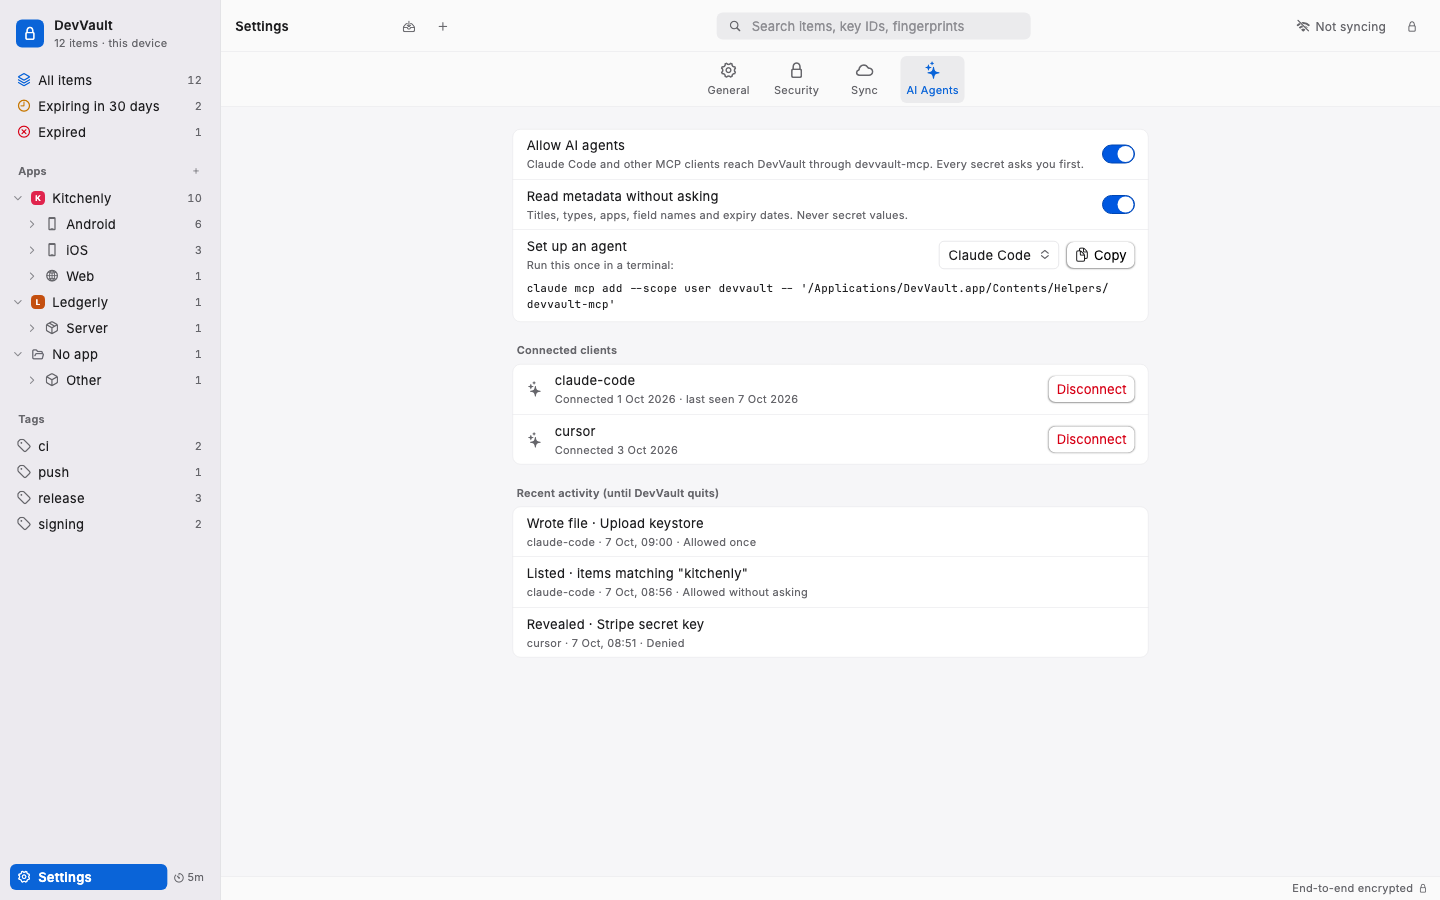
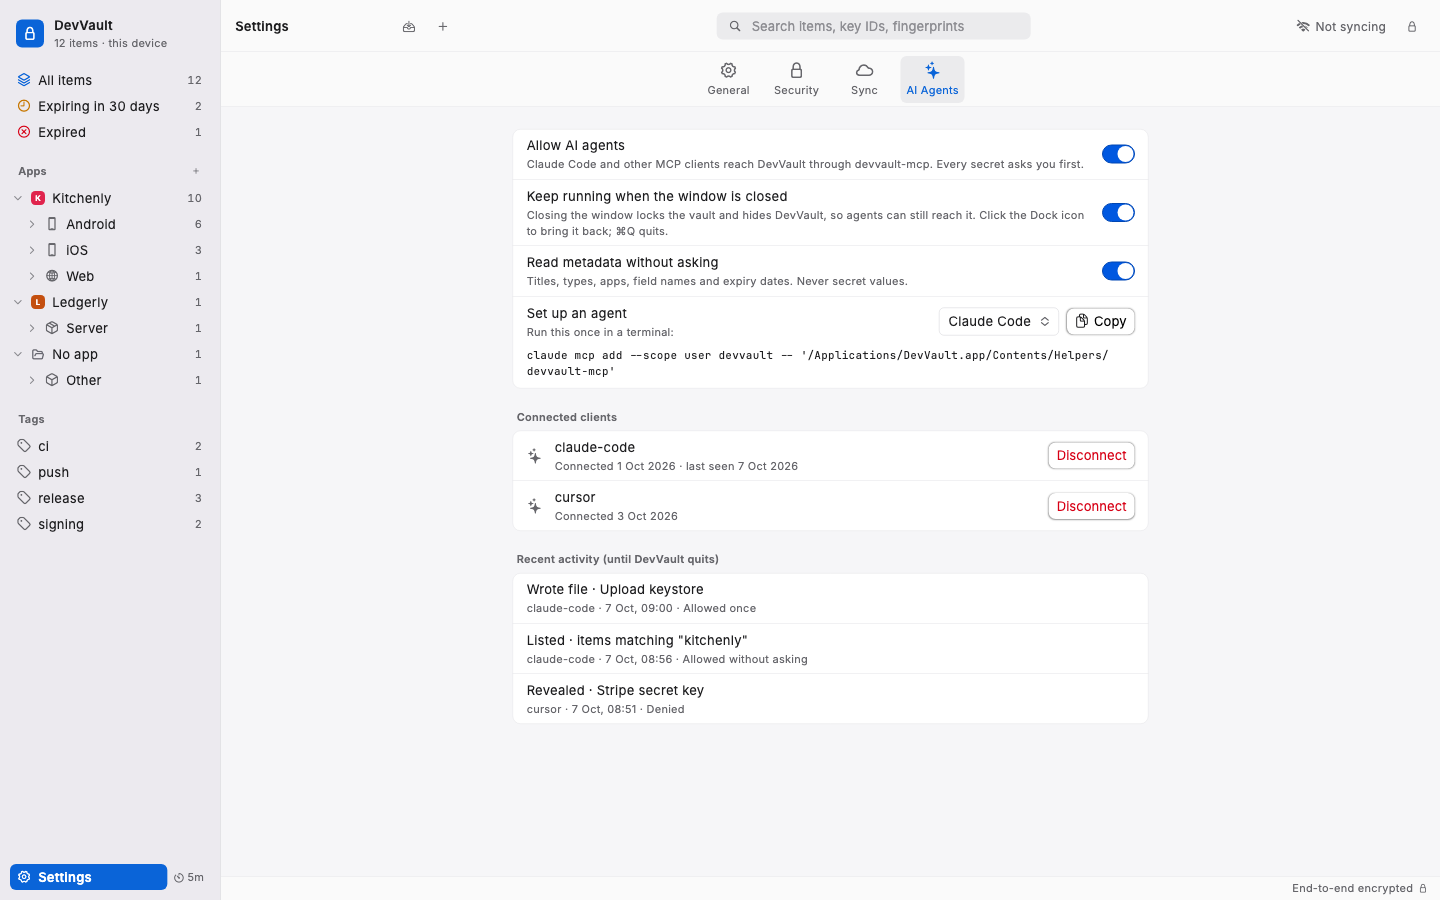
Keep DevVault running when its window is closed, while AI agents are on
Closing the window now locks the vault and hides DevVault instead of
quitting (window_manager setPreventClose), so agents reach it without a
relaunch; clicking the Dock icon shows the window again (AppDelegate
applicationShouldHandleReopen), an agent's request brings it forward,
and Cmd-Q still quits. A switch in Settings › AI Agents, on by default,
active only while agents are on and only on macOS.

diff --git a/lib/data/app_settings.dart b/lib/data/app_settings.dart
@@ -13,6 +13,7 @@ class AppSettings {
     this.expiryReminders = true,
     this.agentsEnabled = false,
     this.agentMetadataWithoutAsking = true,
+    this.keepRunningWhenClosed = true,
   });
 
   static const defaultAutoLock = Duration(minutes: 5);
@@ -54,6 +55,10 @@ class AppSettings {
   /// asking each time. Secret values always ask.
   final bool agentMetadataWithoutAsking;
 
+  /// While AI agents are on (macOS): closing the window locks the vault and
+  /// hides DevVault instead of quitting, so agents can still reach it.
+  final bool keepRunningWhenClosed;
+
   AppSettings copyWith({
     ThemeMode? themeMode,
     Duration? Function()? autoLockAfter,
@@ -61,6 +66,7 @@ class AppSettings {
     bool? expiryReminders,
     bool? agentsEnabled,
     bool? agentMetadataWithoutAsking,
+    bool? keepRunningWhenClosed,
   }) => AppSettings(
     themeMode: themeMode ?? this.themeMode,
     autoLockAfter: autoLockAfter == null ? this.autoLockAfter : autoLockAfter(),
@@ -69,6 +75,7 @@ class AppSettings {
     agentsEnabled: agentsEnabled ?? this.agentsEnabled,
     agentMetadataWithoutAsking:
         agentMetadataWithoutAsking ?? this.agentMetadataWithoutAsking,
+    keepRunningWhenClosed: keepRunningWhenClosed ?? this.keepRunningWhenClosed,
   );
 
   Map<String, Object?> toJson() => {
@@ -78,6 +85,7 @@ class AppSettings {
     'expiry_reminders': expiryReminders,
     'agents_enabled': agentsEnabled,
     'agent_metadata_without_asking': agentMetadataWithoutAsking,
+    'keep_running_when_closed': keepRunningWhenClosed,
   };
 
   /// Reads what it recognises and keeps the default for the rest, so a
@@ -105,6 +113,7 @@ class AppSettings {
       agentsEnabled: json['agents_enabled'] == true,
       agentMetadataWithoutAsking:
           json['agent_metadata_without_asking'] != false,
+      keepRunningWhenClosed: json['keep_running_when_closed'] != false,
     );
   }
 
@@ -142,7 +151,8 @@ class AppSettings {
       other.clipboardClearAfter == clipboardClearAfter &&
       other.expiryReminders == expiryReminders &&
       other.agentsEnabled == agentsEnabled &&
-      other.agentMetadataWithoutAsking == agentMetadataWithoutAsking;
+      other.agentMetadataWithoutAsking == agentMetadataWithoutAsking &&
+      other.keepRunningWhenClosed == keepRunningWhenClosed;
 
   @override
   int get hashCode => Object.hash(
@@ -152,5 +162,6 @@ class AppSettings {
     expiryReminders,
     agentsEnabled,
     agentMetadataWithoutAsking,
+    keepRunningWhenClosed,
   );
 }

diff --git a/lib/app/window_close.dart b/lib/app/window_close.dart
@@ -1,0 +1,69 @@
+import 'package:flutter/widgets.dart';
+import 'package:flutter_riverpod/flutter_riverpod.dart';
+import 'package:window_manager/window_manager.dart';
+
+import '../data/app_settings.dart';
+import '../data/providers.dart';
+import '../data/vault_session.dart';
+
+/// Whether closing the window should keep DevVault running (P5): only
+/// where agents are supported, while they're on, and while the user wants
+/// it.
+bool keepsRunningWhenClosed(AppSettings settings, {required bool supported}) =>
+    supported && settings.agentsEnabled && settings.keepRunningWhenClosed;
+
+/// Closing the window, while [keepsRunningWhenClosed]: locks the vault and
+/// hides the window instead of quitting, so AI agents can still reach
+/// DevVault. Clicking the Dock icon shows it again (AppDelegate.swift);
+/// an agent's request brings it forward; ⌘Q still quits.
+///
+/// Only around the app's own native window: `main()` sets that, tests
+/// don't.
+class KeepRunningOnClose extends ConsumerStatefulWidget {
+  const KeepRunningOnClose({super.key, required this.child});
+
+  final Widget child;
+
+  @override
+  ConsumerState<KeepRunningOnClose> createState() => _KeepRunningOnCloseState();
+}
+
+class _KeepRunningOnCloseState extends ConsumerState<KeepRunningOnClose>
+    with WindowListener {
+  bool _keepRunning = false;
+
+  @override
+  void initState() {
+    super.initState();
+    windowManager.addListener(this);
+    _apply();
+    ref.listenManual(settingsProvider, (_, _) => _apply());
+  }
+
+  @override
+  void dispose() {
+    windowManager.removeListener(this);
+    super.dispose();
+  }
+
+  void _apply() {
+    final keep = keepsRunningWhenClosed(
+      ref.read(settingsProvider),
+      supported: ref.read(agentSocketPathProvider) != null,
+    );
+    if (keep == _keepRunning) return;
+    _keepRunning = keep;
+    windowManager.setPreventClose(keep);
+  }
+
+  @override
+  Future<void> onWindowClose() async {
+    if (!_keepRunning) return;
+    // Hidden means locked: nothing decrypted sits behind a closed window.
+    ref.read(vaultSessionProvider.notifier).lock();
+    await windowManager.hide();
+  }
+
+  @override
+  Widget build(BuildContext context) => widget.child;
+}

diff --git a/lib/features/settings/desktop_agents_pane.dart b/lib/features/settings/desktop_agents_pane.dart
@@ -50,6 +50,28 @@ class DesktopAgentsPane extends ConsumerWidget {
               ),
             ),
             DesktopSettingsRow(
+              title: 'Keep running when the window is closed',
+              onTap: supported && settings.agentsEnabled
+                  ? () => notifier.setKeepRunningWhenClosed(
+                      !settings.keepRunningWhenClosed,
+                    )
+                  : null,
+              description:
+                  'Closing the window locks the vault and hides DevVault, so '
+                  'agents can still reach it. Click the Dock icon to bring it '
+                  'back; ⌘Q quits.',
+              trailing: DesktopSwitch(
+                value:
+                    supported &&
+                    settings.agentsEnabled &&
+                    settings.keepRunningWhenClosed,
+                onChanged: supported && settings.agentsEnabled
+                    ? notifier.setKeepRunningWhenClosed
+                    : null,
+                semanticLabel: 'Keep running when the window is closed',
+              ),
+            ),
+            DesktopSettingsRow(
               title: 'Read metadata without asking',
               onTap: () => notifier.setAgentMetadataWithoutAsking(
                 !settings.agentMetadataWithoutAsking,

diff --git a/packages/vault_core/lib/src/model/records.dart b/packages/vault_core/lib/src/model/records.dart
@@ -326,16 +326,12 @@ class Item implements SyncedRecord {
   };
 
   /// A copy with changes. Expiry is set and cleared as a pair; to clear it,
-  /// pass `clearExpiry: true`. `clearApp`, `clearPlatform` and
-  /// `clearEnvironment` clear the item's place in the tree the same way.
+  /// pass `clearExpiry: true`.
   Item copyWith({
     String? title,
     String? appId,
-    bool clearApp = false,
     String? platform,
-    bool clearPlatform = false,
     String? environment,
-    bool clearEnvironment = false,
     List<String>? tags,
     Map<String, ItemField>? fields,
     List<Attachment>? attachments,
@@ -350,9 +346,9 @@ class Item implements SyncedRecord {
     id: id,
     typeName: typeName,
     title: title ?? this.title,
-    appId: clearApp ? null : appId ?? this.appId,
-    platform: clearPlatform ? null : platform ?? this.platform,
-    environment: clearEnvironment ? null : environment ?? this.environment,
+    appId: appId ?? this.appId,
+    platform: platform ?? this.platform,
+    environment: environment ?? this.environment,
     tags: tags ?? this.tags,
     fields: fields ?? this.fields,
     attachments: attachments ?? this.attachments,

diff --git a/lib/data/vault_filter.dart b/lib/data/vault_filter.dart
@@ -202,17 +202,18 @@ class TreePlace {
   final String? platform;
   final String? env;
 
-  /// [item] moved here; nothing else about it changes.
+  /// [item] moved here; nothing else about it changes. It goes through
+  /// the record's own JSON, since `copyWith` can't clear a value, so
+  /// fields this version doesn't know are kept too.
   Item applyTo(Item item) {
-    String? value(String? v) => v == VaultFilter.none ? null : v;
-    return item.copyWith(
-      appId: value(app),
-      clearApp: app == VaultFilter.none,
-      platform: value(platform),
-      clearPlatform: platform == VaultFilter.none,
-      environment: value(env),
-      clearEnvironment: env == VaultFilter.none,
-    );
+    String? value(String? wanted, String? current) =>
+        wanted == null ? current : (wanted == VaultFilter.none ? null : wanted);
+    return Item.fromJson({
+      ...item.toJson(),
+      'app_id': value(app, item.appId),
+      'platform': value(platform, item.platform),
+      'environment': value(env, item.environment),
+    });
   }
 
   /// Whether [item] already sits here in [index]'s tree, where an item

diff --git a/test/window_close_test.dart b/test/window_close_test.dart
@@ -1,0 +1,29 @@
+import 'package:devvault/app/window_close.dart';
+import 'package:devvault/data/app_settings.dart';
+import 'package:flutter_test/flutter_test.dart';
+
+void main() {
+  test('keeps running only with agents on, where supported, if wanted', () {
+    const on = AppSettings(agentsEnabled: true);
+    expect(keepsRunningWhenClosed(on, supported: true), isTrue);
+    expect(keepsRunningWhenClosed(on, supported: false), isFalse);
+    expect(
+      keepsRunningWhenClosed(const AppSettings(), supported: true),
+      isFalse,
+    );
+    expect(
+      keepsRunningWhenClosed(
+        on.copyWith(keepRunningWhenClosed: false),
+        supported: true,
+      ),
+      isFalse,
+    );
+  });
+
+  test('the setting defaults on and round-trips', () {
+    expect(const AppSettings().keepRunningWhenClosed, isTrue);
+    expect(AppSettings.fromJson({}).keepRunningWhenClosed, isTrue);
+    final off = const AppSettings().copyWith(keepRunningWhenClosed: false);
+    expect(AppSettings.fromJson(off.toJson()).keepRunningWhenClosed, isFalse);
+  });
+}

diff --git a/lib/app/app.dart b/lib/app/app.dart
@@ -21,6 +21,7 @@ import 'layout.dart';
 import 'router.dart';
 import 'routes.dart';
 import 'session_redirect.dart';
+import 'window_close.dart';
 import 'theme.dart';
 
 class DevVaultApp extends ConsumerStatefulWidget {
@@ -159,11 +160,18 @@ class _DevVaultAppState extends ConsumerState<DevVaultApp> {
         // Desktop controls are drawn by the OS's own kit (ADR-0005). Around
         // the Navigator, so menus the kits open as routes are themed too.
         if (_layout != AppLayout.desktop) return app;
+        final window = widget.nativeWindow
+            ? KeepRunningOnClose(child: app)
+            : app;
         return DesktopTheme(
           nativeWindow: widget.nativeWindow,
           child: DesktopCommandsScope(
             commands: _commands,
-            child: AppMenus(router: _router, commands: _commands, child: app),
+            child: AppMenus(
+              router: _router,
+              commands: _commands,
+              child: window,
+            ),
           ),
         );
       },

diff --git a/packages/vault_core/test/records_test.dart b/packages/vault_core/test/records_test.dart
@@ -138,26 +138,6 @@ void main() {
         expect(cleared.expiresAt, isNull);
         expect(cleared.expiresSource, isNull);
       });
-
-      test('copyWith moves an item and clears its place', () {
-        final item = Item.fromJson(keystoreJson());
-        final moved = item.copyWith(
-          appId: '0190a3d2-7c1e-7b3a-9f00-000000000999',
-          platform: 'ios',
-        );
-        expect(moved.appId, '0190a3d2-7c1e-7b3a-9f00-000000000999');
-        expect(moved.platform, 'ios');
-        expect(moved.environment, item.environment);
-        final cleared = moved.copyWith(
-          clearApp: true,
-          clearPlatform: true,
-          clearEnvironment: true,
-        );
-        expect(cleared.appId, isNull);
-        expect(cleared.platform, isNull);
-        expect(cleared.environment, isNull);
-        expect(cleared.title, item.title);
-      });
     });
 
     test('rejects malformed values without echoing them', () {

diff --git a/test/settings_agents_test.dart b/test/settings_agents_test.dart
@@ -45,6 +45,20 @@ void main() {
     expect(find.textContaining('tool_timeout_sec = 150'), findsOneWidget);
   });
 
+  testWidgets('keep running needs agents on', (tester) async {
+    await open(tester);
+    final c = appContainer(tester);
+    await tester.tap(find.text('Keep running when the window is closed'));
+    await tester.pumpAndSettle();
+    // Agents are off: nothing to keep running for.
+    expect(c.read(settingsProvider).keepRunningWhenClosed, isTrue);
+    c.read(settingsProvider.notifier).setAgentsEnabled(true);
+    await tester.pumpAndSettle();
+    await tester.tap(find.text('Keep running when the window is closed'));
+    await tester.pumpAndSettle();
+    expect(c.read(settingsProvider).keepRunningWhenClosed, isFalse);
+  });
+
   testWidgets('macOS only for now', (tester) async {
     await open(tester, supported: false);
     expect(find.text('Available on macOS for now.'), findsOneWidget);

diff --git a/macos/Runner/AppDelegate.swift b/macos/Runner/AppDelegate.swift
@@ -7,6 +7,21 @@ class AppDelegate: FlutterAppDelegate {
     return true
   }
 
+  // With Settings › AI Agents › Keep running, closing the window only
+  // hides it (lib/app/window_close.dart); clicking the Dock icon shows it
+  // again.
+  override func applicationShouldHandleReopen(
+    _ sender: NSApplication, hasVisibleWindows flag: Bool
+  ) -> Bool {
+    if !flag {
+      for window in sender.windows where window is MainFlutterWindow {
+        window.makeKeyAndOrderFront(self)
+      }
+      sender.activate(ignoringOtherApps: true)
+    }
+    return true
+  }
+
   override func applicationSupportsSecureRestorableState(_ app: NSApplication) -> Bool {
     return true
   }

diff --git a/test/vault_sidebar_test.dart b/test/vault_sidebar_test.dart
@@ -759,6 +759,12 @@ void main() {
       expect(toOther.appId, isNull);
       expect(toOther.platform, isNull);
       expect(toOther.environment, isNull);
+      // Nothing but the place changes.
+      Map<String, Object?> rest(Item i) => i.toJson()
+        ..remove('app_id')
+        ..remove('platform')
+        ..remove('environment');
+      expect(rest(toOther), rest(stripe));
 
       final back = TreePlace.of(stripe).applyTo(toOther);
       expect(back.appId, stripe.appId);

diff --git a/lib/data/providers.dart b/lib/data/providers.dart
@@ -127,6 +127,9 @@ class SettingsNotifier extends Notifier<AppSettings> {
 
   void setAgentMetadataWithoutAsking(bool on) =>
       update(state.copyWith(agentMetadataWithoutAsking: on));
+
+  void setKeepRunningWhenClosed(bool on) =>
+      update(state.copyWith(keepRunningWhenClosed: on));
 }
 
 final settingsProvider = NotifierProvider<SettingsNotifier, AppSettings>(
